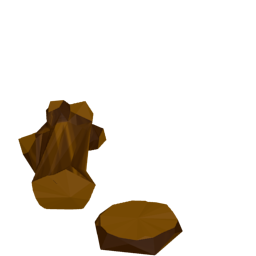
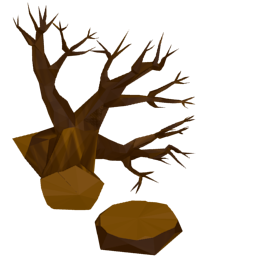
Added a few more animation frames for cutting down the tree, and then added the ability to cut down the tree. Needs more work, as right now cutting down the tree is entirely fruitless.

Changed region(s): [[0.0312, 0.0, 0.7812, 0.8438], [0.125, 0.6562, 0.1875, 0.8125], [0.1875, 0.8125, 0.2188, 0.8438]]

diff --git a/gameScript.js b/gameScript.js
@@ -1289,6 +1289,7 @@ function character(){
                     //Done with cleanup
 
                     //These two remove the rock from the inventory and display it to be so
+                    //Holding, of course, contains all of the items in this encapsulationDevice.
                     playerCharacter.inventory[encapsulationDevice].holding = [];
                     playerCharacter.inventoryUpdate();
                     //Done with inventory stuff, now we'll end the loop and the window
@@ -1638,9 +1639,9 @@ function gameLoad(ctx, cnv){
                 worldMap.addElement('smallRock', [tileArray[4]], 'clutter', .05, [, undefined, smallRockPickup], 10, {width:0, height:0, xAdjust:32, yAdjust:32}, undefined, undefined);
                 worldMap.addElement('tree', [tileArray[8]], 'clutter', .1, [onTreeSpawn, onTreeUpdate, onTreeClick], 32, {width:85, height:90, xAdjust:95, yAdjust:166}, undefined, {x:130, y:175});
                 //The sticks are defined here.
-                worldMap.addElement('smallStick' , [tileArray[22]], 'clutter', 0, [undefined, undefined, smallStickPickup] , 10, {width:0, height:0, xAdjust:32, yAdjust:32}, undefined, undefined);
-                worldMap.addElement('mediumStick', [tileArray[23]], 'clutter', 0, [undefined, undefined, mediumStickPickup], 10, {width:0, height:0, xAdjust:32, yAdjust:32}, undefined, undefined);
-                worldMap.addElement('largeStick' , [tileArray[24]], 'clutter', 0, [undefined, undefined, largeStickPickup] , 10, {width:0, height:0, xAdjust:32, yAdjust:64}, undefined, undefined);
+                worldMap.addElement('smallStick' , [tileArray[25]], 'clutter', 0, [undefined, undefined, smallStickPickup] , 10, {width:0, height:0, xAdjust:32, yAdjust:32}, undefined, undefined);
+                worldMap.addElement('mediumStick', [tileArray[26]], 'clutter', 0, [undefined, undefined, mediumStickPickup], 10, {width:0, height:0, xAdjust:32, yAdjust:32}, undefined, undefined);
+                worldMap.addElement('largeStick' , [tileArray[27]], 'clutter', 0, [undefined, undefined, largeStickPickup] , 10, {width:0, height:0, xAdjust:32, yAdjust:64}, undefined, undefined);
                 //End of stick definition.
                 
                 
@@ -1671,6 +1672,10 @@ function gameLoad(ctx, cnv){
                     magicalOrb.activeColor = 'rgb(152,251,152)';
                     magicalOrb.colors = ['rgb(152,251,152)'];
                   }
+                  
+                  this.strength = Math.round(Math.random()*200)+300;
+                  console.log(this.strength);
+                  this.fullStrength = this.strength;
                 }
                 
                 function onTreeUpdate(){
@@ -1683,6 +1688,42 @@ function gameLoad(ctx, cnv){
                     }
                   }.bind(this));
                   ctx.globalAlpha = 1;
+                }
+                
+                function onTreeClick(){
+                  for(var encapsulationDevice in playerCharacter.inventory){
+                    for(var itemIndex in playerCharacter.inventory[encapsulationDevice].holding){
+                      var item = playerCharacter.inventory[encapsulationDevice].holding[itemIndex];
+                      if(item && item.crafting && item.crafting.asTool && item.crafting.asTool.harvestingEffectiveness){
+                        this.strength = this.strength - item.crafting.asTool.harvestingEffectiveness;
+                        console.log(this.strength);
+                      }
+                    }
+                  }
+                  if(this.strength < this.fullStrength){
+                    this.image = tileArray[9];
+                  }
+                  if(this.strength < (this.fullStrength*0.8)){
+                    this.image = tileArray[10];
+                  }
+                  if(this.strength < (this.fullStrength*0.6)){
+                    this.image = tileArray[11];
+                    this.animationCounter = 0;
+                    //TODO: Cache clickRect instead of entire function.
+                    this.cachedOnClick = this.onClick;
+                    
+                    this.onClick = function(){};
+                    this.onUpdate = function(){
+                      this.animationCounter = this.animationCounter + 1;
+                      this.image = tileArray[11 + Math.floor(this.animationCounter/2)];
+                      
+                      if(this.animationCounter > 14){
+                        this.image = tileArray[18];
+                        this.onUpdate = function(){};
+                        this.onClick = this.cachedOnClick;
+                      }
+                    }
+                  }
                 }
                 
                 function onBigRockSpawn(){
@@ -2071,7 +2112,7 @@ function gameLoad(ctx, cnv){
                               combineableWith:{
                                 axeHead:{
                                   name:'Hatchet',
-                                  image:tileArray[29],
+                                  image:tileArray[32],
                                   crafting:{
                                     asTool:{
                                       pointiness:1.5,
@@ -2095,7 +2136,7 @@ function gameLoad(ctx, cnv){
                                 },
                                 blade:{
                                   name:'Dagger',
-                                  image:tileArray[30],
+                                  image:tileArray[33],
                                   crafting:{
                                     asTool:{
                                       pointiness:5,
@@ -2119,7 +2160,7 @@ function gameLoad(ctx, cnv){
                                 },
                                 point:{
                                   name:'Chisel',
-                                  image:tileArray[31],
+                                  image:tileArray[34],
                                   crafting:{
                                     asTool:{
                                       pointiness:1.25,
@@ -2151,7 +2192,7 @@ function gameLoad(ctx, cnv){
                                 arcanis:true
                               }
                             },
-                            image:tileArray[26]
+                            image:tileArray[29]
                           }
                         }
                       }
@@ -2168,7 +2209,7 @@ function gameLoad(ctx, cnv){
                 function mediumStickPickup(){
                   if(!this.name)this.name = 'Stick';
                   
-									if(!this.crafting){
+				  if(!this.crafting){
                     this.crafting = {
                       asMaterial:{
                         resemblance:{
@@ -2185,7 +2226,7 @@ function gameLoad(ctx, cnv){
                               combineableWith:{
                                 axeHead:{
                                   name:'Axe',
-                                  image:tileArray[32],
+                                  image:tileArray[35],
                                   crafting:{
                                     asTool:{
                                       pointiness:1.75,
@@ -2209,7 +2250,7 @@ function gameLoad(ctx, cnv){
                                 },
                                 blade:{
                                   name:'Scythe',
-                                  image:tileArray[33],
+                                  image:tileArray[36],
                                   crafting:{
                                     asTool:{
                                       pointiness:.5,
@@ -2233,7 +2274,7 @@ function gameLoad(ctx, cnv){
                                 },
                                 point:{
                                   name:'Pick',
-                                  image:tileArray[34],
+                                  image:tileArray[37],
                                   crafting:{
                                     asTool:{
                                       pointiness:1,
@@ -2265,7 +2306,7 @@ function gameLoad(ctx, cnv){
                                 arcanis:true
                               }
                             },
-                            image:tileArray[27]
+                            image:tileArray[30]
                           }
                         }
                       }
